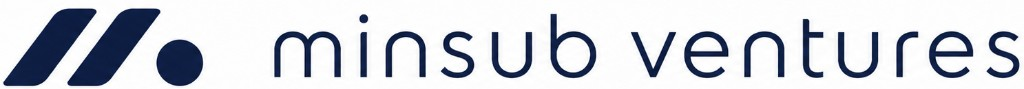
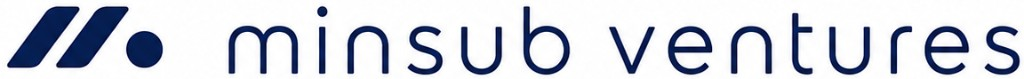
feat(ci): 락업 PNG 갱신, 미리보기 비율 통일, 문의·권리·타이포 섹션
- 가로 락업 미리보기: 세로 높이 차이에 따른 확대 불일치를 aspect 1024/112로 보정

- about-ci-locale: 기타 안내(문의·저작권·타이포) ko/en/zh 및 한국어 문구 수정

- public: 워드마크·락업 3종 PNG 교체

diff --git a/src/lib/i18n/about-ci-locale.ts b/src/lib/i18n/about-ci-locale.ts
@@ -42,6 +42,15 @@ export type AboutCiPageCopy = {
   usageEyebrow: string;
   usageTitle: string;
   usageBullets: readonly string[];
+  supplementEyebrow: string;
+  supplementTitle: string;
+  contactHeading: string;
+  contactBeforeEmail: string;
+  contactAfterEmail: string;
+  legalHeading: string;
+  legalBody: string;
+  typographyHeading: string;
+  typographyBody: string;
 };
 
 export function aboutCiPageCopy(locale: SiteLocale): AboutCiPageCopy {
@@ -66,7 +75,7 @@ export function aboutCiPageCopy(locale: SiteLocale): AboutCiPageCopy {
       downloadMarkSvg: "심볼 SVG 다운로드",
       downloadWordmarkPng: "워드마크 PNG 다운로드",
       lockupEyebrow: "가로 조합",
-      lockupTitle: "02. 기하형 심볼 + 워드마크",
+      lockupTitle: "04. 기하형 심볼 + 워드마크",
       lockupNarrative: [
         "사선 형태의 심볼은 앞으로 나아가는 방향성과 빠른 실행력을 의미합니다.",
         "두 개의 흐름이 하나의 방향으로 이어지는 구조는 고객과 시장을 연결하며 함께 성장하는 파트너십을 상징합니다.",
@@ -84,7 +93,7 @@ export function aboutCiPageCopy(locale: SiteLocale): AboutCiPageCopy {
       lockupDotsImageAlt: "Minsub Ventures 점·상단 연결형 Navy 가로 로고",
       downloadLockupDotsPng: "점·상단 연결형 가로 로고 PNG 다운로드",
       lockupBottomEyebrow: "가로 조합",
-      lockupBottomTitle: "04. 점·하단 연결형 심볼 + 워드마크",
+      lockupBottomTitle: "02. 점·하단 연결형 심볼 + 워드마크",
       lockupBottomNarrative: [
         "하단 연결 구조는 안정적인 기반과 지속 가능한 운영 시스템을 상징합니다.",
         "눈에 보이지 않는 기반을 단단히 연결하듯, 고객사의 운영·컴플라이언스·재무 구조를 안정적으로 지원하는 MS Ventures의 역할을 표현했습니다.",
@@ -107,6 +116,17 @@ export function aboutCiPageCopy(locale: SiteLocale): AboutCiPageCopy {
         "단색 배경에서는 공식 컬러 대비를 유지하며, 필요 시 단색 반전 버전을 사용합니다.",
         "외부 제작물에는 공식 PDF·SVG·PNG 파일 사용을 권장합니다.",
       ],
+      supplementEyebrow: "기타 안내",
+      supplementTitle: "문의·권리·타이포",
+      contactHeading: "문의",
+      contactBeforeEmail: "CI, 로고 활용 및 공식 파일 제공 관련 문의는 ",
+      contactAfterEmail: " 으로 연락해 주시기 바랍니다.",
+      legalHeading: "저작권·상표",
+      legalBody:
+        "로고, 워드마크 및 심볼을 포함한 모든 브랜드 자산은 Minsub Ventures의 자산입니다. 사전 승인 없이 형태를 변경하거나 상업적 목적으로 재배포·재사용할 수 없습니다. 보도자료, 협력사 자료 등 사용 범위가 명확하지 않은 경우에는 위 이메일을 통해 사전 확인을 요청해 주시기 바랍니다.",
+      typographyHeading: "타이포그래피 (Web)",
+      typographyBody:
+        "본 웹사이트의 본문 및 UI는 시스템 산세리프 스택(예: Apple SD Gothic Neo, SF Pro Display, Segoe UI, Roboto)과 한글 보조 글꼴(Noto Sans KR 계열)을 기준으로 구성되어 있습니다. 외부 제작물에서도 가독성과 중립적인 브랜드 톤을 유지할 수 있는 산세리프 계열 서체 사용을 권장합니다.",
     },
     en: {
       metaTitle: "Brand & CI",
@@ -129,7 +149,7 @@ export function aboutCiPageCopy(locale: SiteLocale): AboutCiPageCopy {
       downloadMarkSvg: "Download symbol (SVG)",
       downloadWordmarkPng: "Download wordmark (PNG)",
       lockupEyebrow: "Horizontal lock-ups",
-      lockupTitle: "02. Geometric mark + wordmark",
+      lockupTitle: "04. Geometric mark + wordmark",
       lockupNarrative: [
         "The diagonal mark conveys forward direction and fast execution.",
         "Two flows converging in one direction symbolise a partnership that links customers and markets and grows together.",
@@ -147,7 +167,7 @@ export function aboutCiPageCopy(locale: SiteLocale): AboutCiPageCopy {
       lockupDotsImageAlt: "Minsub Ventures horizontal logo with top-linked dots in navy",
       downloadLockupDotsPng: "Download top-link lock-up (PNG)",
       lockupBottomEyebrow: "Horizontal lock-ups",
-      lockupBottomTitle: "04. Dot mark (bottom link) + wordmark",
+      lockupBottomTitle: "02. Dot mark (bottom link) + wordmark",
       lockupBottomNarrative: [
         "The bottom-linked structure stands for a stable foundation and a sustainable operating system.",
         "Like an invisible base firmly joined, it expresses how Minsub Ventures supports clients’ operations, compliance and financial structures.",
@@ -170,6 +190,17 @@ export function aboutCiPageCopy(locale: SiteLocale): AboutCiPageCopy {
         "On solid backgrounds, keep official colour contrast; use a solid inverted version when needed.",
         "For external productions, use the official PDF, SVG and PNG files.",
       ],
+      supplementEyebrow: "More",
+      supplementTitle: "Contact, rights & type",
+      contactHeading: "Contact",
+      contactBeforeEmail: "For CI/logo usage questions or official asset requests, email ",
+      contactAfterEmail: " and we’ll respond as soon as we can.",
+      legalHeading: "Copyright & trade marks",
+      legalBody:
+        "The logos, wordmarks and symbols are brand assets of Minsub Ventures. Do not distort them or redistribute/reuse them for commercial purposes without prior agreement. If the scope of use is unclear (press, partner materials, etc.), please confirm via the address above.",
+      typographyHeading: "Typography (web)",
+      typographyBody:
+        "This public site uses a system sans-serif stack (e.g. -apple-system, Segoe UI, Roboto) with Noto-style fonts for Korean text. For external materials, prefer a readable, neutral sans-serif to stay close to the on-site tone.",
     },
     zh: {
       metaTitle: "CI 介绍",
@@ -191,7 +222,7 @@ export function aboutCiPageCopy(locale: SiteLocale): AboutCiPageCopy {
       downloadMarkSvg: "下载符号（SVG）",
       downloadWordmarkPng: "下载横排标识（PNG）",
       lockupEyebrow: "横向组合",
-      lockupTitle: "02. 几何符号 + 横排标识",
+      lockupTitle: "04. 几何符号 + 横排标识",
       lockupNarrative: [
         "斜线形态的符号代表前进方向与快速执行力。",
         "两股力量汇向同一方向，象征连接客户与市场、共同成长的伙伴关系。",
@@ -209,7 +240,7 @@ export function aboutCiPageCopy(locale: SiteLocale): AboutCiPageCopy {
       lockupDotsImageAlt: "Minsub Ventures 顶部连接点阵海军蓝横向标识",
       downloadLockupDotsPng: "下载顶部连接型横向标识（PNG）",
       lockupBottomEyebrow: "横向组合",
-      lockupBottomTitle: "04. 点阵·底部连接 + 横排标识",
+      lockupBottomTitle: "02. 点阵·底部连接 + 横排标识",
       lockupBottomNarrative: [
         "底部连接结构象征稳固基础与可持续的运营体系。",
         "如同将看不见的基础牢牢衔接，表达 Minsub Ventures 对客户运营、合规与财务结构的稳定支持。",
@@ -232,6 +263,17 @@ export function aboutCiPageCopy(locale: SiteLocale): AboutCiPageCopy {
         "在纯色背景上保持官方色彩对比度；必要时可使用纯色反白版本。",
         "对外部制作物，建议使用官方 PDF、SVG、PNG 文件。",
       ],
+      supplementEyebrow: "其他说明",
+      supplementTitle: "联系·权利与字体",
+      contactHeading: "联系",
+      contactBeforeEmail: "有关 CI/标识使用或官方文件索取，请发送邮件至 ",
+      contactAfterEmail: "，我们会尽快回复。",
+      legalHeading: "版权与商标",
+      legalBody:
+        "标识、横排组合与符号等均为 Minsub Ventures 的品牌资产。未经事先约定，请勿擅自变形，亦不得以商业目的再分发或再使用。若用途不明确（媒体报道、合作方物料等），请通过上述邮箱确认。",
+      typographyHeading: "字体（网站）",
+      typographyBody:
+        "本公开网站正文与界面采用系统无衬线字体栈（如 -apple-system、Segoe UI、Roboto），并为中文/韩文等配置 Noto 系辅助字体。对外物料亦建议使用易读、风格中性的无衬线字体，以贴近本站观感。",
     },
   });
 }

diff --git a/src/app/about/ci/page.tsx b/src/app/about/ci/page.tsx
@@ -5,6 +5,7 @@ import { PageHeader } from "@/components/layout/PageHeader";
 import { StandardPageBody } from "@/components/layout/StandardPageBody";
 import { SectionTitle } from "@/components/SectionTitle";
 import { aboutCiPageCopy } from "@/lib/i18n/about-ci-locale";
+import { company } from "@/lib/site-content";
 import { getRequestLocale } from "@/lib/get-request-locale";
 import { staticPageSeoLocalized } from "@/lib/seo-metadata";
 import { withLocalePrefix } from "@/lib/site-locale";
@@ -23,41 +24,24 @@ const body = "text-sm leading-relaxed text-slate-600 break-keep";
 const bodySymbolIntro = "text-sm leading-snug text-slate-600 break-keep";
 const assetDownloadClass =
   "inline-flex items-center rounded-lg border border-slate-200 bg-white px-3 py-2 text-xs font-medium text-msv-blue shadow-sm hover:bg-slate-50 sm:text-sm";
+const ciInlineLinkClass = "font-medium text-msv-blue underline-offset-4 hover:underline";
 /** 가로 로고·워드마크 미리보기: 동일 픽셀 박스 안에 contain(다운로드 원본은 변경 없음) */
 const ciLogoPreviewBox =
-  "mt-6 rounded-xl border border-slate-200 bg-white px-4 py-3 sm:px-6 sm:py-4";
-/** 네 로고 공통 표시 영역 — 동일 박스, 화면 표시만 이전 대비 약 70%(−30%) */
+  "mt-6 flex justify-start rounded-xl border border-slate-200 bg-white px-4 py-3 sm:px-6 sm:py-4";
+/**
+ * 락업 PNG 세로 픽셀(79~112)이 달라도 동일 배율로 보이도록, 가장 높은 원본(112px) 기준 가로세로비로
+ * 프레임 너비를 정함. 고정 높이만 쓰면 짧은 PNG가 더 크게 확대됨.
+ */
 const ciLogoPreviewFrame =
-  "relative h-[2.94rem] w-full max-w-[min(100%,52rem)] sm:h-[3.36rem] md:h-[3.5rem]";
+  "relative h-[2.94rem] min-w-0 w-auto max-w-full aspect-[1024/112] sm:h-[3.36rem] md:h-[3.5rem]"; /* `fill` 이미지 부모 */
 const ciLogoFillClass = "object-contain object-left";
 const ciLogoFillSizes = "(max-width: 768px) 100vw, min(100%, 52rem)";
 
-/**
- * 미리보기만: 합성 PNG마다 심볼 가로 비율이 달라 동일 박스에서 심볼 크기가 달라 보임.
- * `transform: scale`로 보정(1=원본). PNG 교체 시 값만 조정.
- */
-const ciLockupPreviewViewScale: Record<string, number> = {
-  "/msv-lockup-navy.png": 0.72,
-  "/msv-wordmark.png": 1,
-  "/msv-lockup-sixdot-navy.png": 1,
-  "/msv-lockup-bottomlink-navy.png": 1,
-};
-
 function CiLockupPreviewImage({ src, alt }: { src: string; alt: string }) {
-  const viewScale = ciLockupPreviewViewScale[src] ?? 1;
   return (
     <div className={ciLogoPreviewBox}>
       <div className={ciLogoPreviewFrame}>
-        <div
-          className="relative h-full w-full"
-          style={
-            viewScale !== 1
-              ? { transform: `scale(${viewScale})`, transformOrigin: "left center" }
-              : undefined
-          }
-        >
-          <Image fill src={src} alt={alt} unoptimized className={ciLogoFillClass} sizes={ciLogoFillSizes} />
-        </div>
+        <Image fill src={src} alt={alt} unoptimized className={ciLogoFillClass} sizes={ciLogoFillSizes} />
       </div>
     </div>
   );
@@ -135,17 +119,21 @@ export default async function AboutCiPage() {
 
           <section className={card}>
             <SectionTitle
-              eyebrow={copy.lockupEyebrow}
-              title={copy.lockupTitle}
+              eyebrow={copy.lockupBottomEyebrow}
+              title={copy.lockupBottomTitle}
               spacing="tight"
               density="compact"
               headingLevel={2}
             />
-            <CiLogoNarrative paragraphs={copy.lockupNarrative} />
-            <CiLockupPreviewImage src="/msv-lockup-navy.png" alt={copy.lockupImageAlt} />
+            <CiLogoNarrative paragraphs={copy.lockupBottomNarrative} />
+            <CiLockupPreviewImage src="/msv-lockup-bottomlink-navy.png" alt={copy.lockupBottomImageAlt} />
             <div className="mt-4 flex flex-wrap gap-3">
-              <a href="/msv-lockup-navy.png" download="msv-lockup-navy.png" className={assetDownloadClass}>
-                {copy.downloadLockupPng}
+              <a
+                href="/msv-lockup-bottomlink-navy.png"
+                download="msv-lockup-bottomlink-navy.png"
+                className={assetDownloadClass}
+              >
+                {copy.downloadLockupBottomPng}
               </a>
             </div>
           </section>
@@ -173,21 +161,17 @@ export default async function AboutCiPage() {
 
           <section className={card}>
             <SectionTitle
-              eyebrow={copy.lockupBottomEyebrow}
-              title={copy.lockupBottomTitle}
+              eyebrow={copy.lockupEyebrow}
+              title={copy.lockupTitle}
               spacing="tight"
               density="compact"
               headingLevel={2}
             />
-            <CiLogoNarrative paragraphs={copy.lockupBottomNarrative} />
-            <CiLockupPreviewImage src="/msv-lockup-bottomlink-navy.png" alt={copy.lockupBottomImageAlt} />
+            <CiLogoNarrative paragraphs={copy.lockupNarrative} />
+            <CiLockupPreviewImage src="/msv-lockup-navy.png" alt={copy.lockupImageAlt} />
             <div className="mt-4 flex flex-wrap gap-3">
-              <a
-                href="/msv-lockup-bottomlink-navy.png"
-                download="msv-lockup-bottomlink-navy.png"
-                className={assetDownloadClass}
-              >
-                {copy.downloadLockupBottomPng}
+              <a href="/msv-lockup-navy.png" download="msv-lockup-navy.png" className={assetDownloadClass}>
+                {copy.downloadLockupPng}
               </a>
             </div>
           </section>
@@ -233,6 +217,36 @@ export default async function AboutCiPage() {
                 <li key={line}>{line}</li>
               ))}
             </ul>
+          </section>
+
+          <section className={card}>
+            <SectionTitle
+              eyebrow={copy.supplementEyebrow}
+              title={copy.supplementTitle}
+              spacing="tight"
+              density="compact"
+              headingLevel={2}
+            />
+            <div className="mt-6 space-y-8">
+              <div>
+                <h3 className="text-sm font-semibold tracking-tight text-slate-900">{copy.contactHeading}</h3>
+                <p className={`mt-2 ${body}`}>
+                  {copy.contactBeforeEmail}
+                  <a href={`mailto:${company.infoEmail}`} className={ciInlineLinkClass}>
+                    {company.infoEmail}
+                  </a>
+                  {copy.contactAfterEmail}
+                </p>
+              </div>
+              <div>
+                <h3 className="text-sm font-semibold tracking-tight text-slate-900">{copy.legalHeading}</h3>
+                <p className={`mt-2 ${body}`}>{copy.legalBody}</p>
+              </div>
+              <div>
+                <h3 className="text-sm font-semibold tracking-tight text-slate-900">{copy.typographyHeading}</h3>
+                <p className={`mt-2 ${body}`}>{copy.typographyBody}</p>
+              </div>
+            </div>
           </section>
 
           <p className={`text-center text-sm text-slate-500`}>
